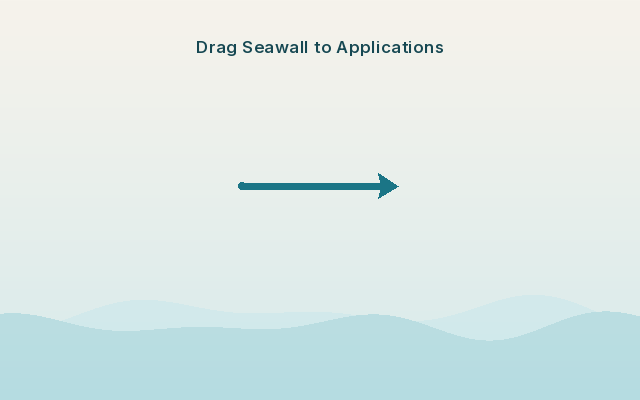
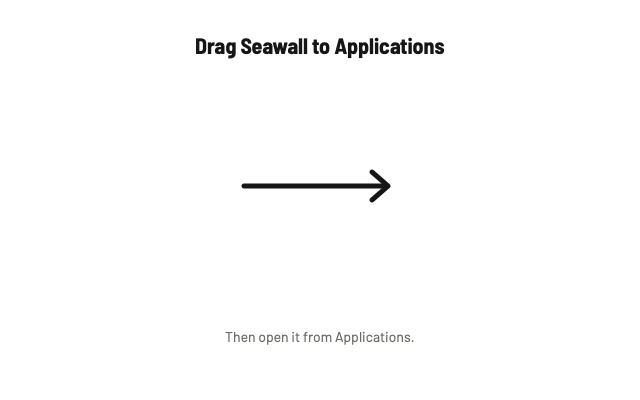
Installer background in the Soft look
White paper, an ink arrow from the app to Applications, and the line in
Barlow Semi Condensed, the blocked page's own embedded font. Drawn by
scripts/dmg/render-background.swift in WebKit, which replaces the Pillow
script (it needed Pillow and Inter, and drew the old teal sea).

diff --git a/scripts/dmg/render-background.swift b/scripts/dmg/render-background.swift
@@ -1,0 +1,84 @@
+// Renders the installer-DMG background at @1x (640x400) and @2x (1280x800), in the Soft look:
+// white paper, an ink arrow from the app to Applications, and the line in Barlow Semi Condensed,
+// the same embedded font as the blocked page (Sources/SeawallCore/BlockedPageFonts.swift).
+// No colour but ink: Finder shows the picture as is in light and dark mode, and the two icons
+// bring their own.
+//
+//     swift scripts/dmg/render-background.swift
+//
+// The committed PNGs in this folder are what make-dmg.sh uses; run this again only if you
+// change the design. Icon positions match make-dmg.sh: centres at (160, 186) and (480, 186).
+import AppKit
+import WebKit
+
+let folder = URL(fileURLWithPath: CommandLine.arguments[0]).deletingLastPathComponent()
+let root = folder.deletingLastPathComponent().deletingLastPathComponent()
+let fontsSwift = try! String(contentsOf: root.appendingPathComponent("Sources/SeawallCore/BlockedPageFonts.swift"), encoding: .utf8)
+let fontCSS: String = {
+    guard let start = fontsSwift.range(of: "##\"\"\"\n"), let end = fontsSwift.range(of: "\n\"\"\"##") else {
+        fatalError("render-background: can't find the font CSS in BlockedPageFonts.swift")
+    }
+    return String(fontsSwift[start.upperBound..<end.lowerBound])
+}()
+
+let html = """
+<!doctype html><html><head><meta charset="utf-8"><style>
+\(fontCSS)
+html,body{margin:0;width:640px;height:400px;background:#FFFFFF;overflow:hidden}
+h1{position:absolute;left:0;right:0;top:34px;margin:0;text-align:center;color:#161616;
+   font:700 22px/1 "Barlow Semi Condensed",sans-serif;letter-spacing:-.005em}
+p{position:absolute;left:0;right:0;top:330px;margin:0;text-align:center;color:#6B6B67;font:400 14px/1 "Barlow",sans-serif}
+svg{position:absolute;left:0;top:0}
+</style></head><body>
+<h1>Drag Seawall to Applications</h1>
+<svg width="640" height="400" viewBox="0 0 640 400" aria-hidden="true">
+  <path d="M244 186H386" stroke="#161616" stroke-width="5" stroke-linecap="round" fill="none"/>
+  <path d="M372 172 388 186 372 200" stroke="#161616" stroke-width="5" stroke-linecap="round" stroke-linejoin="round" fill="none"/>
+</svg>
+<p>Then open it from Applications.</p>
+</body></html>
+"""
+
+let app = NSApplication.shared
+app.setActivationPolicy(.prohibited)
+
+final class Renderer: NSObject, WKNavigationDelegate {
+    let web = WKWebView(frame: NSRect(x: 0, y: 0, width: 640, height: 400))
+    func webView(_ webView: WKWebView, didFinish navigation: WKNavigation!) {
+        Task { @MainActor in
+            _ = try? await webView.callAsyncJavaScript("await document.fonts.ready", contentWorld: .page)
+            try? await Task.sleep(for: .milliseconds(300))
+            for scale in [1, 2] {
+                let config = WKSnapshotConfiguration()
+                config.rect = NSRect(x: 0, y: 0, width: 640, height: 400)
+                config.snapshotWidth = NSNumber(value: 640 * scale / Int(NSScreen.main?.backingScaleFactor ?? 2))
+                let image = try! await webView.takeSnapshot(configuration: config)
+                // Draw into an exact pixel size, whatever the screen's scale.
+                let rep = NSBitmapImageRep(bitmapDataPlanes: nil, pixelsWide: 640 * scale, pixelsHigh: 400 * scale,
+                                           bitsPerSample: 8, samplesPerPixel: 4, hasAlpha: true, isPlanar: false,
+                                           colorSpaceName: .deviceRGB, bytesPerRow: 0, bitsPerPixel: 0)!
+                NSGraphicsContext.saveGraphicsState()
+                NSGraphicsContext.current = NSGraphicsContext(bitmapImageRep: rep)
+                NSGraphicsContext.current?.imageInterpolation = .high
+                image.draw(in: NSRect(x: 0, y: 0, width: 640 * scale, height: 400 * scale))
+                NSGraphicsContext.restoreGraphicsState()
+                rep.size = NSSize(width: 640, height: 400)
+                let url = folder.appendingPathComponent("background@\(scale)x.png")
+                try! rep.representation(using: .png, properties: [:])!.write(to: url)
+                print("wrote \(url.path)")
+            }
+            exit(0)
+        }
+    }
+}
+
+let renderer = Renderer()
+renderer.web.navigationDelegate = renderer
+renderer.web.appearance = NSAppearance(named: .aqua)
+let window = NSWindow(contentRect: NSRect(x: -5000, y: -5000, width: 640, height: 400), styleMask: [.borderless], backing: .buffered, defer: false)
+window.isReleasedWhenClosed = false
+window.contentView = renderer.web
+window.orderBack(nil)
+renderer.web.loadHTMLString(html, baseURL: nil)
+DispatchQueue.main.asyncAfter(deadline: .now() + 30) { print("render-background: timed out"); exit(1) }
+app.run()

diff --git a/scripts/dmg/write-dsstore.py b/scripts/dmg/write-dsstore.py
@@ -7,7 +7,7 @@ reads volume attributes from the live filesystem. Called by scripts/make-dmg.sh.
   python3 scripts/dmg/write-dsstore.py /Volumes/Seawall
 
 The window content is 640x400; icon size 128; Seawall.app at (160, 186) and
-Applications at (480, 186). Keep these in sync with render-background.py.
+Applications at (480, 186). Keep these in sync with render-background.swift.
 The Finder window is 28pt taller than the background so the title bar doesn't
 crop it. WindowBounds uses QuickDraw coordinates (origin at the bottom left).
 """
@@ -19,7 +19,7 @@ from pathlib import Path
 from ds_store import DSStore
 from mac_alias import Alias
 
-# Must match scripts/make-dmg.sh and render-background.py.
+# Must match scripts/make-dmg.sh and render-background.swift.
 WIN_X, WIN_Y = 200, 200
 WIN_W, CONTENT_H, TITLEBAR = 640, 400, 28
 WIN_H = CONTENT_H + TITLEBAR

diff --git a/DESIGN.md b/DESIGN.md
@@ -6,7 +6,7 @@ How Seawall looks, and the rules that keep it that way. What it is and who it's 
 
 A plain, standard Mac app in light and dark mode, in the Timetable look (chosen 2026-11-22): it reads like a ferry timetable, with black ink, white paper and red kept for times. No textures, no water, no glass of our own: the system draws the menu panel's material, and everything else is flat.
 
-One look everywhere, the **Soft** look (chosen 2026-11-23 on an options board, over Square and Round): the menu, the welcome, the blocked page and seawall.work share the same buttons, corners and colours. Ink buttons for the one main action, soft grey tiles for everything else, no outlines, soft corners. Black, white and grey only; red is for times. The system accent colour is replaced by ink (`.tint(Color.ink)` at every window's root), and site and app logos are drawn in black and white (`NSImage.monochrome`). A list's own colour survives only as a small dot on its badge.
+One look everywhere, the **Soft** look (chosen 2026-11-23 on an options board, over Square and Round): the menu, the welcome, the blocked page and seawall.work share the same buttons, corners and colours. Ink buttons for the one main action, soft grey tiles for everything else, no outlines, soft corners. Black, white and grey only; red is for times. The system accent colour is replaced by ink (`.tint(Color.ink)` at every window's root), and site and app logos are drawn in black and white (`NSImage.monochrome`). A list's own colour survives only as a small dot on its badge. The site (seawall-site, `public/assets/site.css`) uses the same tokens and Barlow, and the installer background (`scripts/dmg/render-background.swift`) is white paper with an ink arrow.
 
 The sea and its Metal water were removed on 2026-10-26. Don't bring back animated backgrounds or decorative effects; they cost energy and attention.
 
